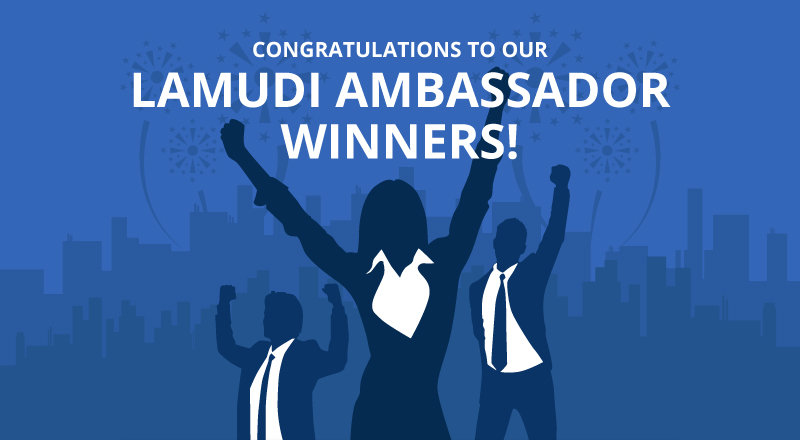
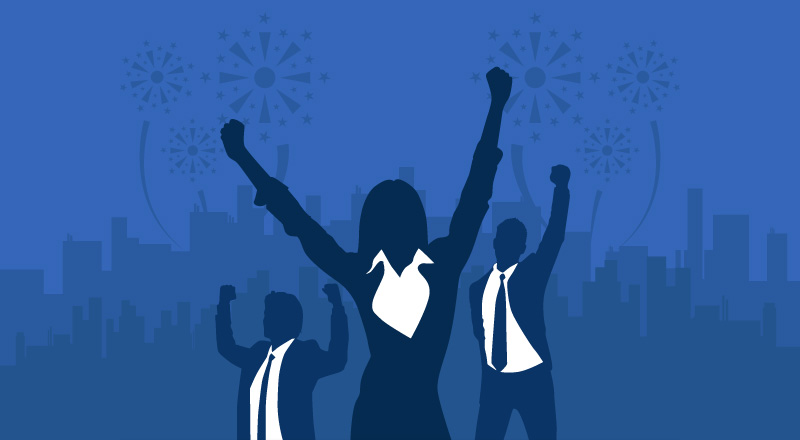
1

Changed region(s): [[0.1562, 0.0886, 0.8438, 0.3841]]

diff --git a/winner/index.html b/winner/index.html
@@ -37,8 +37,9 @@
               </td>
             </tr>
             <tr>
-              <td>
-                <img src="https://mypropertylamudi-test.github.io/referralnewsletter/images/banner-02.jpg">
+              <td height="440" style="background-color: #3466B8;background-image: url('https://mypropertylamudi-test.github.io/referralnewsletter/images/banner-03.jpg');background-repeat: no-repeat;background-position: bottom;">
+                <p style="font-size:21px;text-align:center;color:white;">CONGRATULATIONS TO OUR<p>
+                <p style="font-size:48px;text-align:center;color:white;">LAMUDI AMBASSADOR WINNERS!</p>
               </td>
             </tr>
           </table>
